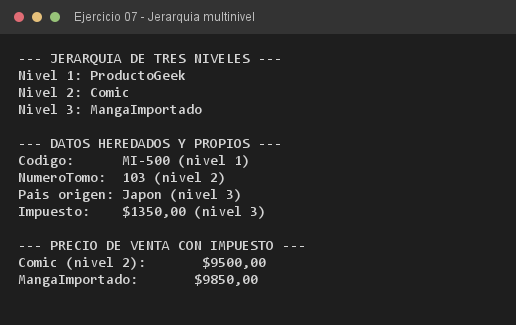
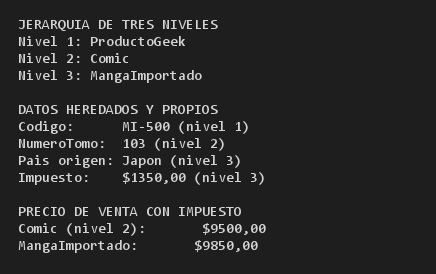
docs: quitar decoradores y actualizar capturas de consola

Changed region(s): [[0.0298, 0.0292, 0.6261, 0.6715], [0.0298, 0.7299, 0.6261, 0.9343]]

diff --git a/src/Main.java b/src/Main.java
@@ -27,13 +27,10 @@ public class Main {
     public static void main(String[] args) {
         int opcion = -1;
         do {
-            System.out.println("\n==================================================");
             System.out.println("       MENÚ PRINCIPAL - EJERCITACIONES POO        ");
-            System.out.println("==================================================");
             System.out.println("1. Ejercitación 3.E.1 (Ejercicios 1 a 10)");
             System.out.println("2. Ejercitación 3.E.2 (Ejercicios 1 a 10)");
             System.out.println("0. Salir");
-            System.out.println("==================================================");
             System.out.print("Seleccione una opción: ");
 
             opcion = leerEntero();
@@ -57,9 +54,7 @@ public class Main {
     private static void menuEjercitacion3_1() {
         int opcion = -1;
         do {
-            System.out.println("\n--------------------------------------------------");
             System.out.println("              EJERCITACIÓN 3.E.1                  ");
-            System.out.println("--------------------------------------------------");
             System.out.println("1.  Ejercicio 1: ProductoGeek y Comic");
             System.out.println("2.  Ejercicio 2: VideojuegoFisico");
             System.out.println("3.  Ejercicio 3: FiguraColeccionable");
@@ -71,7 +66,6 @@ public class Main {
             System.out.println("9.  Ejercicio 9: VerificadorGarantia");
             System.out.println("10. Ejercicio 10: PromocionGeek");
             System.out.println("0.  Volver al menú principal");
-            System.out.println("--------------------------------------------------");
             System.out.print("Seleccione un ejercicio a ejecutar: ");
 
             opcion = leerEntero();
@@ -129,9 +123,7 @@ public class Main {
     private static void menuEjercitacion3_2() {
         int opcion = -1;
         do {
-            System.out.println("\n--------------------------------------------------");
             System.out.println("              EJERCITACIÓN 3.E.2                  ");
-            System.out.println("--------------------------------------------------");
             System.out.println("1.  Ejercicio 1: Persona");
             System.out.println("2.  Ejercicio 2: Mascota");
             System.out.println("3.  Ejercicio 3: Auto");
@@ -143,7 +135,6 @@ public class Main {
             System.out.println("9.  Ejercicio 9: SensorTemperatura y Termostato");
             System.out.println("10. Ejercicio 10: Computadora y Procesador");
             System.out.println("0.  Volver al menú principal");
-            System.out.println("--------------------------------------------------");
             System.out.print("Seleccione un ejercicio a ejecutar: ");
 
             opcion = leerEntero();

diff --git a/src/ejercitacion3_2/ejercicio05/CuentaBancaria.java b/src/ejercitacion3_2/ejercicio05/CuentaBancaria.java
@@ -62,33 +62,33 @@ public class CuentaBancaria {
          */
         CuentaBancaria cuenta = new CuentaBancaria("CBU-00123", "Nicolas Gomez", 150000.0);
 
-        System.out.println("--- DATOS DE LA CUENTA ---");
+        System.out.println("DATOS DE LA CUENTA");
         System.out.println("Numero de cuenta: " + cuenta.getNumeroCuenta());
         System.out.println("Titular:          " + cuenta.getTitular());
         System.out.printf("Saldo:            $%.2f%n", cuenta.getSaldo());
 
         // cambio de titular (unico setter permitido)
-        System.out.println("\n--- CAMBIO DE TITULAR ---");
+        System.out.println("\nCAMBIO DE TITULAR");
         cuenta.setTitular("Nicolas Gomez Lopez");
         System.out.println("Nuevo titular: " + cuenta.getTitular());
 
         // deposito valido
-        System.out.println("\n--- DEPOSITOS ---");
+        System.out.println("\nDEPOSITOS");
         cuenta.depositar(50000.0);
 
         // deposito invalido: monto negativo
-        System.out.println("\n--- DEPOSITO CON MONTO NEGATIVO ---");
+        System.out.println("\nDEPOSITO CON MONTO NEGATIVO");
         cuenta.depositar(-1000.0);
 
         // retiro valido
-        System.out.println("\n--- RETIRO VALIDO ---");
+        System.out.println("\nRETIRO VALIDO");
         cuenta.retirar(30000.0);
 
         // retiro invalido: supera el saldo
-        System.out.println("\n--- RETIRO QUE SUPERA EL SALDO ---");
+        System.out.println("\nRETIRO QUE SUPERA EL SALDO");
         cuenta.retirar(9999999.0);
 
-        System.out.println("\n--- ESTADO FINAL ---");
+        System.out.println("\nESTADO FINAL");
         System.out.printf("Saldo: $%.2f%n", cuenta.getSaldo());
     }
 }

diff --git a/src/ejercitacion3_2/ejercicio06/Empleado.java b/src/ejercitacion3_2/ejercicio06/Empleado.java
@@ -42,22 +42,22 @@ public class Empleado {
     public static void main(String[] args) {
         // empleado valido
         Empleado empleado1 = new Empleado("L-100", "Laura Sanchez", 850000.0, 5);
-        System.out.println("--- EMPLEADO VALIDO ---");
+        System.out.println("EMPLEADO VALIDO");
         System.out.printf("Legajo: %s | Nombre: %s | Sueldo base: $%.2f | Antiguedad: %d anios%n",
                 empleado1.getLegajo(), empleado1.getNombre(), empleado1.getSueldoBase(), empleado1.getAntiguedad());
 
         // empleado con sueldo negativo: el constructor lo corrige a 0.0
-        System.out.println("\n--- EMPLEADO CON SUELDO NEGATIVO (INVALIDO) ---");
+        System.out.println("\nEMPLEADO CON SUELDO NEGATIVO (INVALIDO)");
         Empleado empleado2 = new Empleado("L-200", "Carlos Diaz", -500000.0, -3);
         System.out.printf("Legajo: %s | Nombre: %s | Sueldo base: $%.2f | Antiguedad: %d anios%n",
                 empleado2.getLegajo(), empleado2.getNombre(), empleado2.getSueldoBase(), empleado2.getAntiguedad());
 
         // aumento valido
-        System.out.println("\n--- AUMENTO VALIDO ---");
+        System.out.println("\nAUMENTO VALIDO");
         empleado1.aplicarAumento(20.0);
 
         // aumento invalido: porcentaje negativo o cero
-        System.out.println("\n--- AUMENTO NO VALIDO ---");
+        System.out.println("\nAUMENTO NO VALIDO");
         empleado1.aplicarAumento(-10.0);
         empleado1.aplicarAumento(0.0);
     }

diff --git a/src/ejercitacion3_1/ejercicio07/MangaImportado.java b/src/ejercitacion3_1/ejercicio07/MangaImportado.java
@@ -38,18 +38,18 @@ public class MangaImportado extends Comic {
         MangaImportado manga = new MangaImportado("MI-500", "One Piece", 8500.0, 103, "Japon", 1350.0);
         Comic comic = new Comic("CG-001", "Berserk", 9500.0, 41);
 
-        System.out.println("--- JERARQUIA DE TRES NIVELES ---");
+        System.out.println("JERARQUIA DE TRES NIVELES");
         System.out.println("Nivel 1: ProductoGeek");
         System.out.println("Nivel 2: Comic");
         System.out.println("Nivel 3: MangaImportado\n");
 
-        System.out.println("--- DATOS HEREDADOS Y PROPIOS ---");
+        System.out.println("DATOS HEREDADOS Y PROPIOS");
         System.out.printf("Codigo:      %s (nivel 1)%n", manga.getCodigo());
         System.out.printf("NumeroTomo:  %d (nivel 2)%n", manga.getNumeroTomo());
         System.out.printf("Pais origen: %s (nivel 3)%n", manga.getPaisOrigen());
         System.out.printf("Impuesto:    $%.2f (nivel 3)%n", manga.getImpuestoAduana());
 
-        System.out.println("\n--- PRECIO DE VENTA CON IMPUESTO ---");
+        System.out.println("\nPRECIO DE VENTA CON IMPUESTO");
         System.out.printf("Comic (nivel 2):       $%.2f%n", comic.calcularPrecioVenta());
         System.out.printf("MangaImportado:       $%.2f%n", manga.calcularPrecioVenta());
     }

diff --git a/src/ejercitacion3_1/ejercicio01/Comic.java b/src/ejercitacion3_1/ejercicio01/Comic.java
@@ -19,16 +19,16 @@ public class Comic extends ProductoGeek {
     public static void main(String[] args) {
         Comic comic = new Comic("CG-001", "One Piece", 8500.0, 103);
 
-        System.out.println("--- ACCESO A ATRIBUTOS HEREDADOS (ProductoGeek) ---");
+        System.out.println("ACCESO A ATRIBUTOS HEREDADOS (ProductoGeek)");
         System.out.printf("Codigo:     %s%n", comic.getCodigo());
         System.out.printf("Nombre:     %s%n", comic.getNombre());
         System.out.printf("PrecioBase: $%.2f%n", comic.getPrecioBase());
 
-        System.out.println("\n--- ACCESO A ATRIBUTOS PROPIOS (Comic) ---");
+        System.out.println("\nACCESO A ATRIBUTOS PROPIOS (Comic)");
         System.out.printf("NumeroTomo: %d%n", comic.getNumeroTomo());
 
         // los atributos protected tambien se leen directo desde la subclase
-        System.out.println("\n--- LECTURA DIRECTA DE ATRIBUTOS protected ---");
+        System.out.println("\nLECTURA DIRECTA DE ATRIBUTOS protected");
         System.out.printf("Codigo directo:     %s%n", comic.codigo);
         System.out.printf("NumeroTomo directo: %d%n", comic.numeroTomo);
     }

diff --git a/src/ejercitacion3_1/ejercicio03/FiguraColeccionable.java b/src/ejercitacion3_1/ejercicio03/FiguraColeccionable.java
@@ -29,11 +29,11 @@ public class FiguraColeccionable extends ProductoGeek {
         ProductoGeek producto = new ProductoGeek("PG-100", "Mouse Gamer", 45000.0);
         FiguraColeccionable figura = new FiguraColeccionable("FC-200", "Figura Luffy", 80000.0, true);
 
-        System.out.println("--- COMPORTAMIENTO DIFERENCIAL DE calcularPrecioVenta() ---");
+        System.out.println("COMPORTAMIENTO DIFERENCIAL DE calcularPrecioVenta()");
         System.out.printf("%-28s $%.2f%n", producto.getNombre(), producto.calcularPrecioVenta());
         System.out.printf("%-28s $%.2f%n", figura.getNombre(), figura.calcularPrecioVenta());
 
-        System.out.println("\n--- MISMO METODO, DISTINTO COMPORTAMIENTO ---");
+        System.out.println("\nMISMO METODO, DISTINTO COMPORTAMIENTO");
         System.out.printf("ProductoGeek        -> $%.2f%n", producto.calcularPrecioVenta());
         System.out.printf("FiguraColeccionable -> $%.2f (base + 25%%)%n", figura.calcularPrecioVenta());
     }

diff --git a/src/ejercitacion3_2/ejercicio09/SensorTemperatura.java b/src/ejercitacion3_2/ejercicio09/SensorTemperatura.java
@@ -19,13 +19,13 @@ public class SensorTemperatura {
         SensorTemperatura sensor = new SensorTemperatura(18.5);
         Termostato termostato = new Termostato(25.0);
 
-        System.out.println("--- LECTURA INICIAL DEL SENSOR ---");
+        System.out.println("LECTURA INICIAL DEL SENSOR");
         System.out.printf("Temperatura actual: %.1f C | Limite: %.1f C%n",
                 sensor.getTemperaturaActual(), termostato.getTemperaturaLimite());
         termostato.evaluarRiesgo(sensor);
 
         // se modifica la temperatura del sensor y se vuelve a evaluar
-        System.out.println("\n--- LA TEMPERATURA SUBE POR ENCIMA DEL LIMITE ---");
+        System.out.println("\nLA TEMPERATURA SUBE POR ENCIMA DEL LIMITE");
         sensor.setTemperaturaActual(31.2);
         System.out.printf("Temperatura actual: %.1f C | Limite: %.1f C%n",
                 sensor.getTemperaturaActual(), termostato.getTemperaturaLimite());

diff --git a/src/ejercitacion3_1/ejercicio04/ConsolaEdicionEspecial.java b/src/ejercitacion3_1/ejercicio04/ConsolaEdicionEspecial.java
@@ -31,12 +31,12 @@ public class ConsolaEdicionEspecial extends HardwareGeek {
     public static void main(String[] args) {
         ConsolaEdicionEspecial consola = new ConsolaEdicionEspecial(250000.0, "NS-77A-0092", "Nintendo Switch OLED");
 
-        System.out.println("--- ACCESO A MIEMBROS DE LA SUPERCLASE ---");
+        System.out.println("ACCESO A MIEMBROS DE LA SUPERCLASE");
         System.out.printf("Franquicia:    %s%n", consola.getNombreFranquicia());
         System.out.printf("Precio costo:  $%.2f%n", consola.getPrecioCosto());
         System.out.printf("Numero serie:  %s%n", consola.getNumeroSerie());
 
-        System.out.println("\n--- GANANCIA ESTIMADA ---");
+        System.out.println("\nGANANCIA ESTIMADA");
         double pvp = 399999.0;
         System.out.printf("Precio PVP:      $%.2f%n", pvp);
         System.out.printf("Ganancia:        $%.2f%n", consola.calcularGananciaEstimada(pvp));

diff --git a/src/ejercitacion3_1/ejercicio08/CarritoCompras.java b/src/ejercitacion3_1/ejercicio08/CarritoCompras.java
@@ -37,12 +37,11 @@ public class CarritoCompras {
         carrito.agregarProducto(new IndumentariaGeek("IG-300", "Remera IT Guy", 12999.0, "M", "Algodon"));
         carrito.agregarProducto(new ProductoGeek("PG-100", "Mouse Gamer", 45000.0));
 
-        System.out.println("--- CARRITO CON COLECCION HETEROGENEA ---");
+        System.out.println("CARRITO CON COLECCION HETEROGENEA");
         System.out.printf("Productos en el carrito: %d%n", carrito.cantidadProductos());
         for (ProductoGeek producto : carrito.listaProductos) {
             System.out.printf("- %-20s $%.2f%n", producto.getNombre(), producto.calcularPrecioVenta());
         }
-        System.out.println("----------------------------------------------");
         System.out.printf("Total del carrito: $%.2f%n", carrito.calcularTotalCarrito());
     }
 }

diff --git a/src/ejercitacion3_2/ejercicio08/Punto2D.java b/src/ejercitacion3_2/ejercicio08/Punto2D.java
@@ -34,12 +34,12 @@ public class Punto2D {
         Punto2D origen = new Punto2D();
 
         // println invoca automaticamente el toString() sobrescrito
-        System.out.println("--- REPRESENTACION TEXTUAL ---");
+        System.out.println("REPRESENTACION TEXTUAL");
         System.out.println("Punto 1: " + punto1);
         System.out.println("Punto 2: " + punto2);
         System.out.println("Origen:  " + origen);
 
-        System.out.println("\n--- DISTANCIA EUCLIDIANA ---");
+        System.out.println("\nDISTANCIA EUCLIDIANA");
         System.out.printf("Distancia entre punto 1 y punto 2: %.4f%n", punto1.calcularDistancia(punto2));
         System.out.printf("Distancia entre origen y punto 1:   %.4f%n", origen.calcularDistancia(punto1));
     }

diff --git a/src/ejercitacion3_1/ejercicio02/VideojuegoFisico.java b/src/ejercitacion3_1/ejercicio02/VideojuegoFisico.java
@@ -29,11 +29,11 @@ public class VideojuegoFisico extends ProductoGeek {
     }
 
     public static void main(String[] args) {
-        System.out.println("=== ORDEN DE EJECUCION DE LOS CONSTRUCTORES ===\n");
+        System.out.println("ORDEN DE EJECUCION DE LOS CONSTRUCTORES\n");
 
         VideojuegoFisico juego = new VideojuegoFisico("VG-045", "Elden Ring", 45999.0, "PS5", 480.0);
 
-        System.out.println("\n--- DATOS DEL VIDEOJUEGO ---");
+        System.out.println("\nDATOS DEL VIDEOJUEGO");
         System.out.printf("Codigo:      %s%n", juego.getCodigo());
         System.out.printf("Nombre:      %s%n", juego.getNombre());
         System.out.printf("PrecioBase:  $%.2f%n", juego.getPrecioBase());

diff --git a/src/ejercitacion3_1/ejercicio10/PromocionGeek.java b/src/ejercitacion3_1/ejercicio10/PromocionGeek.java
@@ -28,7 +28,7 @@ public class PromocionGeek {
         double totalLote = 0;
         int numeroTransaccion = 1;
 
-        System.out.println("--- LIQUIDACION DE STOCK ---");
+        System.out.println("LIQUIDACION DE STOCK");
         for (ProductoGeek producto : lote) {
             double precioVenta = producto.calcularPrecioVenta();
             double descuento = obtenerDescuento(producto);
@@ -40,7 +40,6 @@ public class PromocionGeek {
                     precioVenta, descuento * 100, precioFinal);
             numeroTransaccion++;
         }
-        System.out.println("-------------------------------------------------");
         System.out.printf("Total liquidado: $%.2f%n", totalLote);
     }
 
